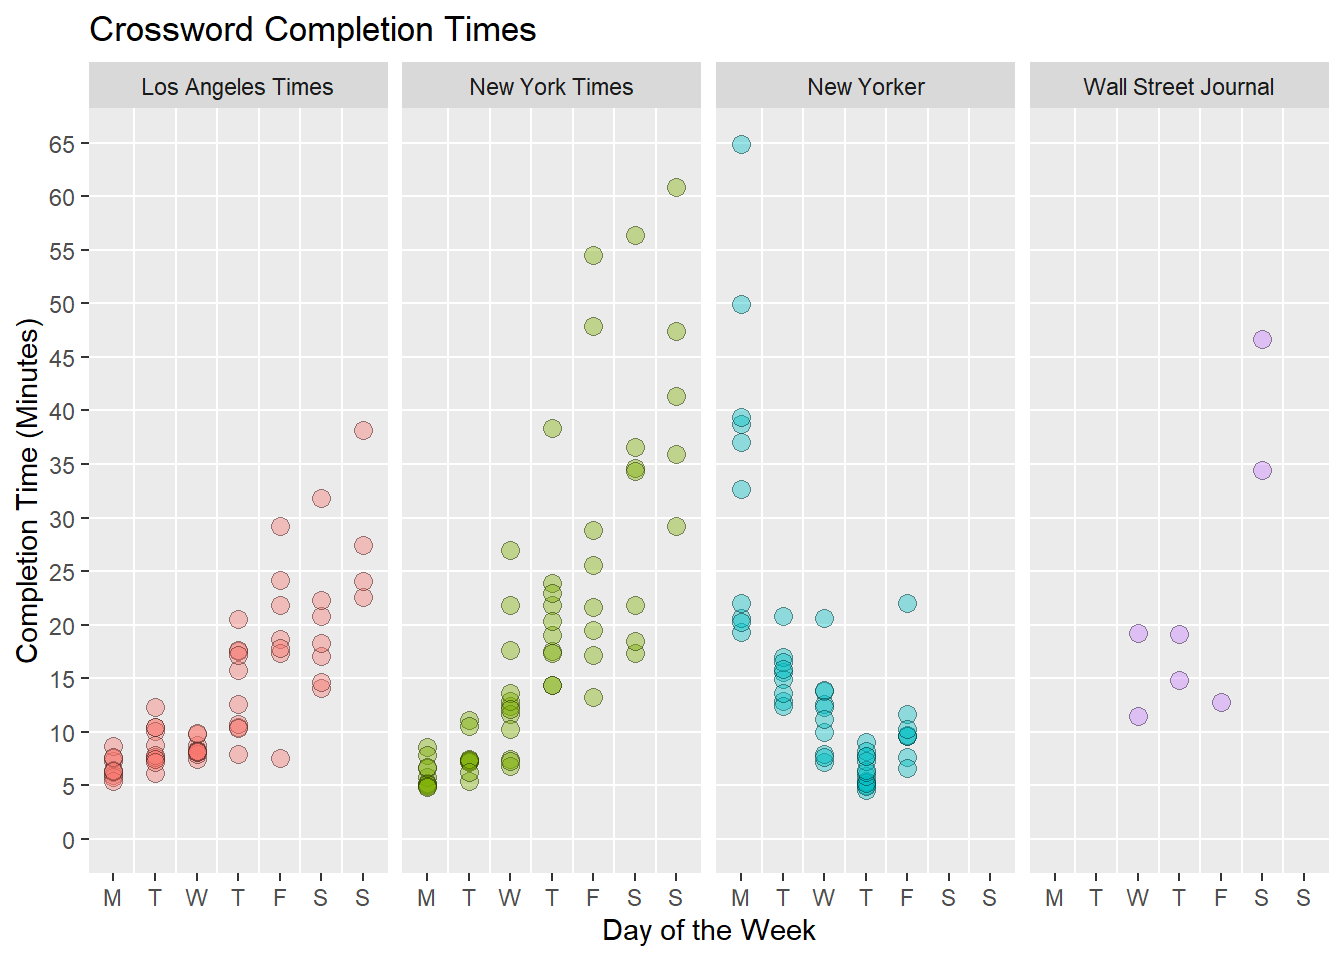
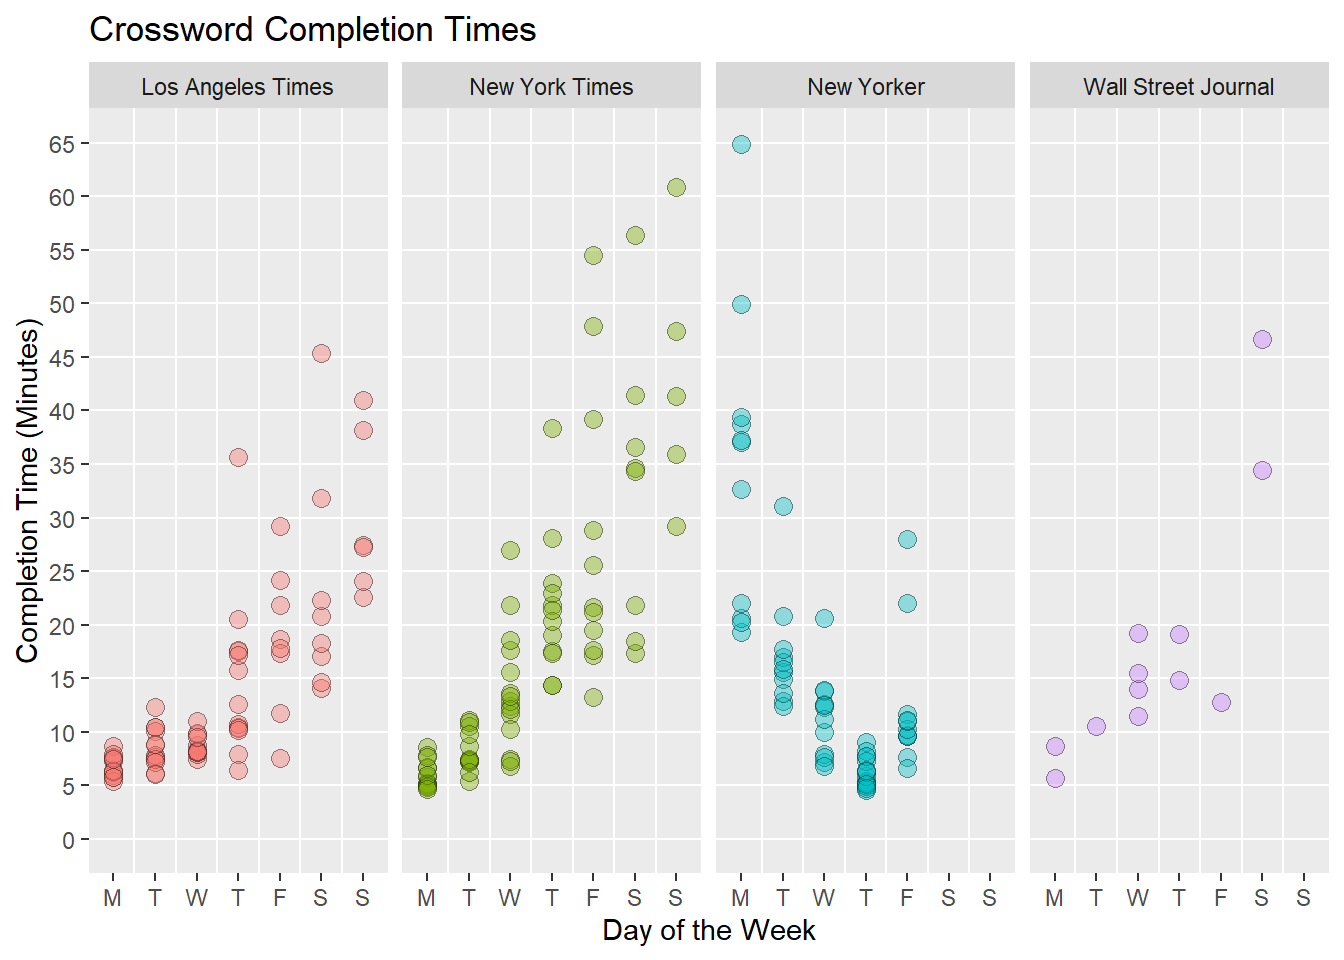
changes to crossword times post

diff --git a/posts/crossword_times/crossword_times.html b/posts/crossword_times/crossword_times.html
@@ -209,7 +209,7 @@ code span.wa { color: #60a0b0; font-weight: bold; font-style: italic; } /* Warni
 <h2 class="anchored" data-anchor-id="visualizing-solve-times">Visualizing Solve Times</h2>
 <p>I’m accustomed to thinking of the week as beginning with Sunday, but for the purposes of crossword difficulty analysis, Monday is better.</p>
 <div class="panel-tabset">
-<ul class="nav nav-tabs" role="tablist"><li class="nav-item" role="presentation"><a class="nav-link active" id="tabset-1-1-tab" data-bs-toggle="tab" data-bs-target="#tabset-1-1" role="tab" aria-controls="tabset-1-1" aria-selected="true">Linear Scale</a></li><li class="nav-item" role="presentation"><a class="nav-link" id="tabset-1-2-tab" data-bs-toggle="tab" data-bs-target="#tabset-1-2" role="tab" aria-controls="tabset-1-2" aria-selected="false">Log Scale</a></li></ul>
+<ul class="nav nav-tabs" role="tablist"><li class="nav-item" role="presentation"><a class="nav-link active" id="tabset-1-1-tab" data-bs-toggle="tab" data-bs-target="#tabset-1-1" role="tab" aria-controls="tabset-1-1" aria-selected="true">Scatterplot</a></li><li class="nav-item" role="presentation"><a class="nav-link" id="tabset-1-2-tab" data-bs-toggle="tab" data-bs-target="#tabset-1-2" role="tab" aria-controls="tabset-1-2" aria-selected="false">Box Plots</a></li></ul>
 <div class="tab-content">
 <div id="tabset-1-1" class="tab-pane active" role="tabpanel" aria-labelledby="tabset-1-1-tab">
 <div class="cell">
@@ -228,17 +228,17 @@ code span.wa { color: #60a0b0; font-weight: bold; font-style: italic; } /* Warni
 <span id="cb1-11"><a href="#cb1-11" aria-hidden="true" tabindex="-1"></a>  <span class="fu">geom_hline</span>(<span class="at">yintercept =</span> breaks, <span class="at">color =</span> <span class="st">"white"</span>) <span class="sc">+</span></span>
 <span id="cb1-12"><a href="#cb1-12" aria-hidden="true" tabindex="-1"></a>  <span class="fu">scale_x_discrete</span>(<span class="at">labels =</span> <span class="fu">c</span>(<span class="st">"M"</span>, <span class="st">"T"</span>, <span class="st">"W"</span>, <span class="st">"T"</span>, <span class="st">"F"</span>, <span class="st">"S"</span>, <span class="st">"S"</span>)) <span class="sc">+</span></span>
 <span id="cb1-13"><a href="#cb1-13" aria-hidden="true" tabindex="-1"></a>  <span class="fu">scale_y_continuous</span>(<span class="at">breaks =</span> breaks) <span class="sc">+</span> </span>
-<span id="cb1-14"><a href="#cb1-14" aria-hidden="true" tabindex="-1"></a>  <span class="fu">geom_point</span>(<span class="at">shape =</span> <span class="dv">21</span>, <span class="at">alpha =</span> <span class="fl">0.4</span>, <span class="at">size =</span> <span class="dv">3</span>) <span class="sc">+</span></span>
-<span id="cb1-15"><a href="#cb1-15" aria-hidden="true" tabindex="-1"></a>  <span class="fu">facet_grid</span>(<span class="at">cols =</span> <span class="fu">vars</span>(Publisher)) <span class="sc">+</span></span>
-<span id="cb1-16"><a href="#cb1-16" aria-hidden="true" tabindex="-1"></a>  <span class="fu">guides</span>(<span class="at">fill =</span> <span class="cn">FALSE</span>) <span class="sc">+</span></span>
-<span id="cb1-17"><a href="#cb1-17" aria-hidden="true" tabindex="-1"></a>  <span class="fu">labs</span>(<span class="at">title =</span> <span class="st">"Crossword Completion Times"</span>,</span>
-<span id="cb1-18"><a href="#cb1-18" aria-hidden="true" tabindex="-1"></a>       <span class="at">x =</span> <span class="st">"Day of the Week"</span>,</span>
-<span id="cb1-19"><a href="#cb1-19" aria-hidden="true" tabindex="-1"></a>       <span class="at">y =</span> <span class="st">"Completion Time (Minutes)"</span>) <span class="sc">+</span></span>
-<span id="cb1-20"><a href="#cb1-20" aria-hidden="true" tabindex="-1"></a>  <span class="fu">theme</span>(<span class="at">panel.grid.major =</span> <span class="fu">element_blank</span>(),</span>
-<span id="cb1-21"><a href="#cb1-21" aria-hidden="true" tabindex="-1"></a>        <span class="at">panel.grid.minor =</span> <span class="fu">element_blank</span>()) <span class="ot">-&gt;</span></span>
-<span id="cb1-22"><a href="#cb1-22" aria-hidden="true" tabindex="-1"></a>  plot</span>
-<span id="cb1-23"><a href="#cb1-23" aria-hidden="true" tabindex="-1"></a></span>
-<span id="cb1-24"><a href="#cb1-24" aria-hidden="true" tabindex="-1"></a>plot</span></code><button title="Copy to Clipboard" class="code-copy-button"><i class="bi"></i></button></pre></div>
+<span id="cb1-14"><a href="#cb1-14" aria-hidden="true" tabindex="-1"></a>  <span class="fu">facet_grid</span>(<span class="at">cols =</span> <span class="fu">vars</span>(Publisher)) <span class="sc">+</span></span>
+<span id="cb1-15"><a href="#cb1-15" aria-hidden="true" tabindex="-1"></a>  <span class="fu">guides</span>(<span class="at">fill =</span> <span class="cn">FALSE</span>) <span class="sc">+</span></span>
+<span id="cb1-16"><a href="#cb1-16" aria-hidden="true" tabindex="-1"></a>  <span class="fu">labs</span>(<span class="at">title =</span> <span class="st">"Crossword Completion Times"</span>,</span>
+<span id="cb1-17"><a href="#cb1-17" aria-hidden="true" tabindex="-1"></a>       <span class="at">x =</span> <span class="st">"Day of the Week"</span>,</span>
+<span id="cb1-18"><a href="#cb1-18" aria-hidden="true" tabindex="-1"></a>       <span class="at">y =</span> <span class="st">"Completion Time (Minutes)"</span>) <span class="sc">+</span></span>
+<span id="cb1-19"><a href="#cb1-19" aria-hidden="true" tabindex="-1"></a>  <span class="fu">theme</span>(<span class="at">panel.grid.major =</span> <span class="fu">element_blank</span>(),</span>
+<span id="cb1-20"><a href="#cb1-20" aria-hidden="true" tabindex="-1"></a>        <span class="at">panel.grid.minor =</span> <span class="fu">element_blank</span>()) <span class="ot">-&gt;</span></span>
+<span id="cb1-21"><a href="#cb1-21" aria-hidden="true" tabindex="-1"></a>  plot</span>
+<span id="cb1-22"><a href="#cb1-22" aria-hidden="true" tabindex="-1"></a></span>
+<span id="cb1-23"><a href="#cb1-23" aria-hidden="true" tabindex="-1"></a>plot <span class="sc">+</span></span>
+<span id="cb1-24"><a href="#cb1-24" aria-hidden="true" tabindex="-1"></a>  <span class="fu">geom_point</span>(<span class="at">shape =</span> <span class="dv">21</span>, <span class="at">alpha =</span> <span class="fl">0.4</span>, <span class="at">size =</span> <span class="dv">3</span>)</span></code><button title="Copy to Clipboard" class="code-copy-button"><i class="bi"></i></button></pre></div>
 </details>
 <div class="cell-output-display">
 <div class="quarto-figure quarto-figure-center">
@@ -251,11 +251,8 @@ code span.wa { color: #60a0b0; font-weight: bold; font-style: italic; } /* Warni
 </div>
 <div id="tabset-1-2" class="tab-pane" role="tabpanel" aria-labelledby="tabset-1-2-tab">
 <div class="cell">
-<details>
-<summary>Code</summary>
-<div class="sourceCode cell-code" id="cb2"><pre class="sourceCode r code-with-copy"><code class="sourceCode r"><span id="cb2-1"><a href="#cb2-1" aria-hidden="true" tabindex="-1"></a>plot <span class="sc">+</span> </span>
-<span id="cb2-2"><a href="#cb2-2" aria-hidden="true" tabindex="-1"></a>  <span class="fu">scale_y_continuous</span>(<span class="at">trans =</span> <span class="st">"log"</span>, <span class="at">breaks =</span> breaks)</span></code><button title="Copy to Clipboard" class="code-copy-button"><i class="bi"></i></button></pre></div>
-</details>
+<div class="sourceCode cell-code" id="cb2"><pre class="sourceCode r code-with-copy"><code class="sourceCode r"><span id="cb2-1"><a href="#cb2-1" aria-hidden="true" tabindex="-1"></a>plot <span class="sc">+</span></span>
+<span id="cb2-2"><a href="#cb2-2" aria-hidden="true" tabindex="-1"></a>  <span class="fu">geom_boxplot</span>()</span></code><button title="Copy to Clipboard" class="code-copy-button"><i class="bi"></i></button></pre></div>
 <div class="cell-output-display">
 <div class="quarto-figure quarto-figure-center">
 <figure class="figure">
@@ -528,7 +525,7 @@ window.document.addEventListener("DOMContentLoaded", function (event) {
 });
 </script>
 </div> <!-- /content -->
-<script>var lightboxQuarto = GLightbox({"openEffect":"zoom","loop":true,"closeEffect":"zoom","descPosition":"bottom","selector":".lightbox"});</script>
+<script>var lightboxQuarto = GLightbox({"descPosition":"bottom","openEffect":"zoom","closeEffect":"zoom","selector":".lightbox","loop":true});</script>
 
 
 
